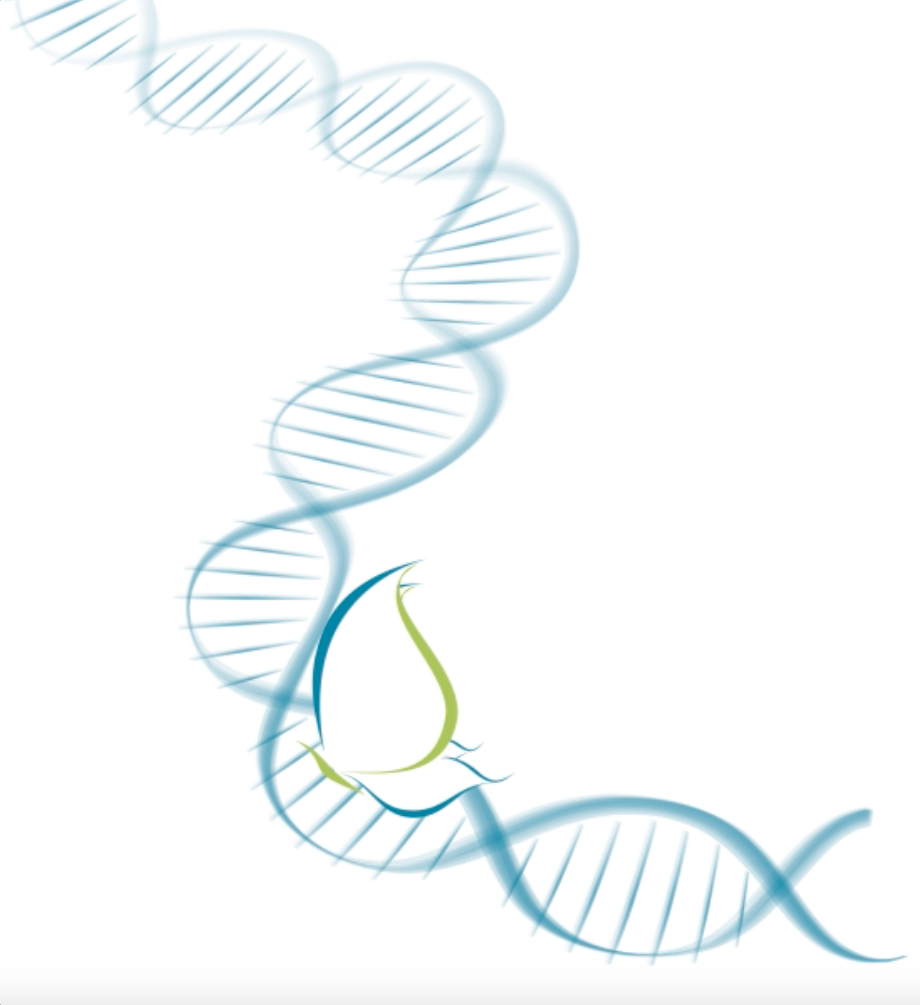
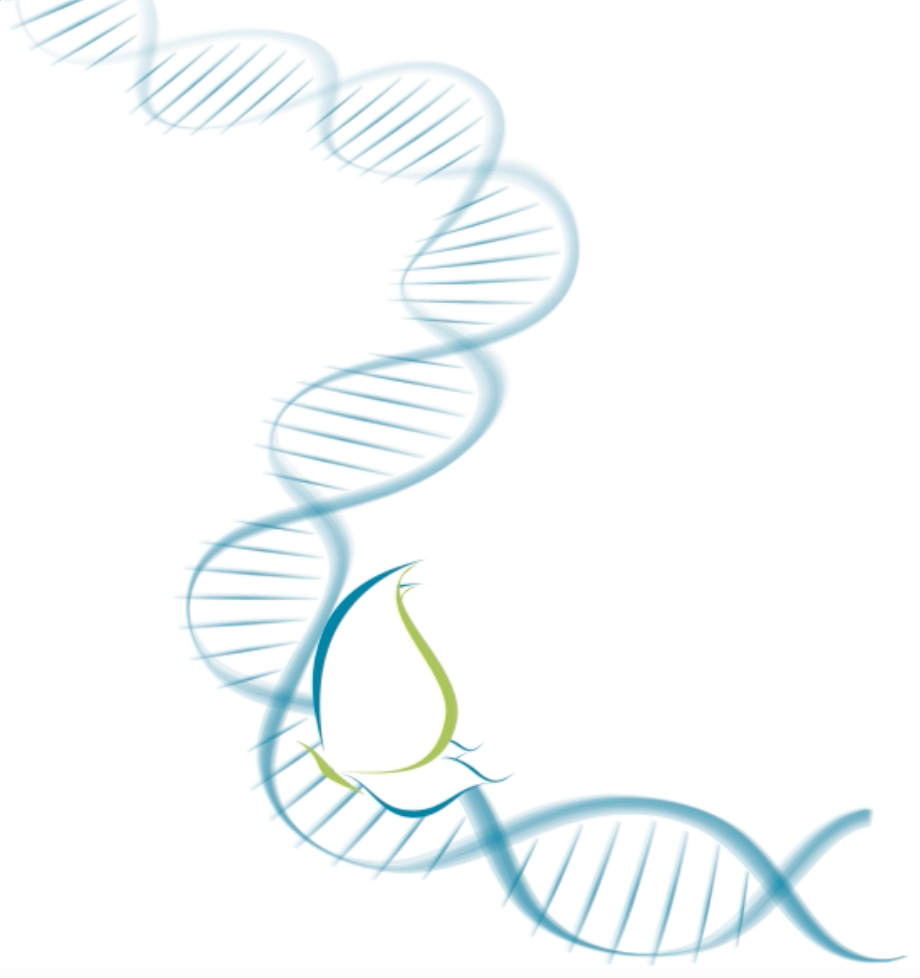
cropped dna segment imgs to remove gray border

Changed region(s): [[0.1522, 0.0613, 0.9739, 1.0], [0.0609, 0.0307, 0.1217, 0.0613]]

diff --git a/app/css/styles.css b/app/css/styles.css
@@ -1,1 +1,1 @@
-body{font-family:"HelveticaNeue-Light", "Helvetica Neue Light", "Helvetica Neue", Helvetica, Arial, "Lucida Grande", sans-serif;color:black;font-size:18pt;overflow-x:hidden}@font-face{font-family:SignPainter;src:url("fonts/SignPainter.otf") format("opentype");font-weight:normal}.sign-painter{font-family:'SignPainter', serif;padding-left:35px;color:#ffffff;font-size:40pt}.page-title{background-image:url("../img/paint-stroke.png");width:408px;height:70px;background-repeat:no-repeat}video{z-index:-1}.dna-segment-img{padding-top:10px}.dna-segment-video{padding-top:10px}.navbar{min-height:85px}#top-nav{box-shadow:-20px 0 30px 0 #28779E}.navbar-default{background-color:#ffffff;border-color:#ffffff}.nav>li>a{outline:none}.nav-font{font-family:"HelveticaNeue", "Helvetica Neue", "Helvetica Neue", Helvetica, Arial, "Lucida Grande", sans-serif;font-size:15pt}.navbar-default .navbar-toggle:focus,.navbar-default .navbar-toggle:hover{background-color:#ffffff}.navbar-default .navbar-nav>li>a{color:#28779E}.navbar-default .navbar-nav>li>a:hover,.navbar-default .navbar-nav>li>a:active{color:#A4B345}.navbar-nav>li>a{padding-top:30px}.navbar-default .navbar-nav>.current-page-true>a,.navbar-default .navbar-nav>.current-page-true>a:hover,.navbar-default .navbar-nav>.current-page-true>a:focus{color:#A4B345;background-color:white}.navbar-default .navbar-collapse,.navbar-default .navbar-form{border:none}#navbar-brand-logo{position:relative;top:-15px}.responsive-video{width:100%;height:auto}.icons{float:left;clear:none;padding:0 15px}.icons-lg{width:234px}.icons-md{width:194px}.expertise-item{background-image:url("../img/bar.png");width:100%;background-repeat:no-repeat}.expertise-item-text{padding-left:20px;padding-top:10px}.panel-default{border:none}.profile-painter{font-family:'SignPainter', serif;color:#28779E;font-size:36pt}.email-font{font-size:20px}#submit-btn{background-color:#A4B345;color:white;width:140px;height:55px;font-size:100%;font-weight:lighter;border-color:white;border-radius:8px}input.ng-invalid.ng-touched,textarea.ng-invalid.ng-touched{border:1px solid #A94442;box-shadow:0 1px 1px rgba(0,0,0,0.075) inset,0 0 8px #F2DEDE;outline:0 none}.invalid-msg{margin-top:15px}#form-messages{padding:5px;border-radius:5px;margin-bottom:5px;height:55px;font-size:85%}.navbar-brand{padding:30px 15px 15px 15px}.footer-font{font-family:"HelveticaNeue", "Helvetica Neue", "Helvetica Neue", Helvetica, Arial, "Lucida Grande", sans-serif;font-size:12pt}html{position:relative;min-height:100%}body{margin-bottom:100px}.footer{padding-top:20px;position:absolute;bottom:0;width:100%;height:60px;background-color:#ffffff;color:#939598;border-color:#ffffff}.ng-enter{transition:0.5s linear all;opacity:0}.ng-enter.ng-enter-active{opacity:1}@keyframes fadeInLeft{from{opacity:0;transform:translate3d(-10%, 0, 0)}to{opacity:1;transform:none}}.fadeInLeft{animation-name:fadeInLeft}@keyframes fadeInDown{from{opacity:0;transform:translate3d(0, -20%, 0)}to{opacity:1;transform:none}}.fadeInDown{animation-name:fadeInDown}
+body{font-family:"HelveticaNeue-Light", "Helvetica Neue Light", "Helvetica Neue", Helvetica, Arial, "Lucida Grande", sans-serif;color:black;font-size:18pt;overflow-x:hidden}@font-face{font-family:SignPainter;src:url("fonts/SignPainter.otf") format("opentype");font-weight:normal}.sign-painter{font-family:'SignPainter', serif;padding-left:35px;color:#ffffff;font-size:40pt}.page-title{background-image:url("../img/paint-stroke.png");width:408px;height:70px;background-repeat:no-repeat}video{z-index:-1}.dna-segment-img{padding-top:10px}.dna-segment-video{padding-top:10px}.navbar{min-height:85px}.blue-shadow{box-shadow:-20px 0 30px 0 #28779E}.navbar-default{background-color:#ffffff;border-color:#ffffff}.nav>li>a{outline:none}.nav-font{font-family:"HelveticaNeue", "Helvetica Neue", "Helvetica Neue", Helvetica, Arial, "Lucida Grande", sans-serif;font-size:15pt}.navbar-default .navbar-toggle:focus,.navbar-default .navbar-toggle:hover{background-color:#ffffff}.navbar-default .navbar-nav>li>a{color:#28779E}.navbar-default .navbar-nav>li>a:hover,.navbar-default .navbar-nav>li>a:active{color:#A4B345}.navbar-nav>li>a{padding-top:30px}.navbar-default .navbar-nav>.current-page-true>a,.navbar-default .navbar-nav>.current-page-true>a:hover,.navbar-default .navbar-nav>.current-page-true>a:focus{color:#A4B345;background-color:white}.navbar-default .navbar-collapse,.navbar-default .navbar-form{border:none}#navbar-brand-logo{position:relative;top:-15px}.responsive-video{width:100%;height:auto}.icons{float:left;clear:none;padding:0 15px}.icons-lg{width:234px}.icons-md{width:194px}.expertise-item{background-image:url("../img/bar.png");width:100%;background-repeat:no-repeat}.expertise-item-text{padding-left:20px;padding-top:10px}.panel-default{border:none}.profile-painter{font-family:'SignPainter', serif;color:#28779E;font-size:36pt}.email-font{font-size:20px}#submit-btn{background-color:#A4B345;color:white;width:140px;height:55px;font-size:100%;font-weight:lighter;border-color:white;border-radius:8px}input.ng-invalid.ng-touched,textarea.ng-invalid.ng-touched{border:1px solid #A94442;box-shadow:0 1px 1px rgba(0,0,0,0.075) inset,0 0 8px #F2DEDE;outline:0 none}.invalid-msg{margin-top:15px}#form-messages{padding:5px;border-radius:5px;margin-bottom:5px;height:55px;font-size:85%}.navbar-brand{padding:30px 15px 15px 15px}.footer-font{font-family:"HelveticaNeue", "Helvetica Neue", "Helvetica Neue", Helvetica, Arial, "Lucida Grande", sans-serif;font-size:12pt}html{position:relative;min-height:100%}body{margin-bottom:100px}.footer{padding-top:20px;position:absolute;bottom:0;width:100%;height:60px;background-color:#ffffff;color:#939598;border-color:#ffffff}.ng-enter{transition:0.5s linear all;opacity:0}.ng-enter.ng-enter-active{opacity:1}@keyframes fadeInLeft{from{opacity:0;transform:translate3d(-10%, 0, 0)}to{opacity:1;transform:none}}.fadeInLeft{animation-name:fadeInLeft}@keyframes fadeInDown{from{opacity:0;transform:translate3d(0, -20%, 0)}to{opacity:1;transform:none}}.fadeInDown{animation-name:fadeInDown}

diff --git a/app/js/min/scripts.min.js b/app/js/min/scripts.min.js
@@ -1,1 +1,1 @@
-"use strict";$(window).on("beforeunload",function(){$("video").hide()}),$(window).load(function(){var o=$(window).width();o<992&&($("#contact-form-div").removeClass("fadeInDown wow"),$("#top-nav").removeAttr("box-shadow")),$(window).resize(function(){o=$(window).width(),o<992?$("#contact-form-div").removeClass("fadeInDown wow"):$("#contact-form-div").addClass("fadeInDown wow")})});
+"use strict";$(window).on("beforeunload",function(){$("video").hide()}),$(window).load(function(){var o=$(window).width();o<992&&($("#contact-form-div").removeClass("fadeInDown wow"),$("#top-nav").removeClass("box-shadow")),$(window).resize(function(){o=$(window).width(),o<992?$("#contact-form-div").removeClass("fadeInDown wow"):$("#contact-form-div").addClass("fadeInDown wow")})});

diff --git a/app/views/navbar.html b/app/views/navbar.html
@@ -1,4 +1,4 @@
-<nav id="top-nav" class="navbar navbar-default" ng-controller="NavbarController">
+<nav id="top-nav" class="navbar navbar-default blue-shadow" ng-controller="NavbarController">
   <div class="container">
     <!-- Brand and toggle get grouped for better mobile display -->
     <div class="navbar-header">

diff --git a/app/js/scripts.js b/app/js/scripts.js
@@ -12,7 +12,7 @@ $(window).load(function() {
   // console.log('viewportWidth = ', viewportWidth);
   if (viewportWidth < 992) {
     $("#contact-form-div").removeClass("fadeInDown wow");
-    $("#top-nav").removeAttr("box-shadow");
+    $("#top-nav").removeClass("box-shadow");
   }
 
   $(window).resize(function () {

diff --git a/app/scss/navbar.scss b/app/scss/navbar.scss
@@ -2,7 +2,7 @@
   min-height: 85px;
 }
 
-#top-nav {
+.blue-shadow {
   box-shadow: -20px 0 30px 0 $blue;
 }
 
